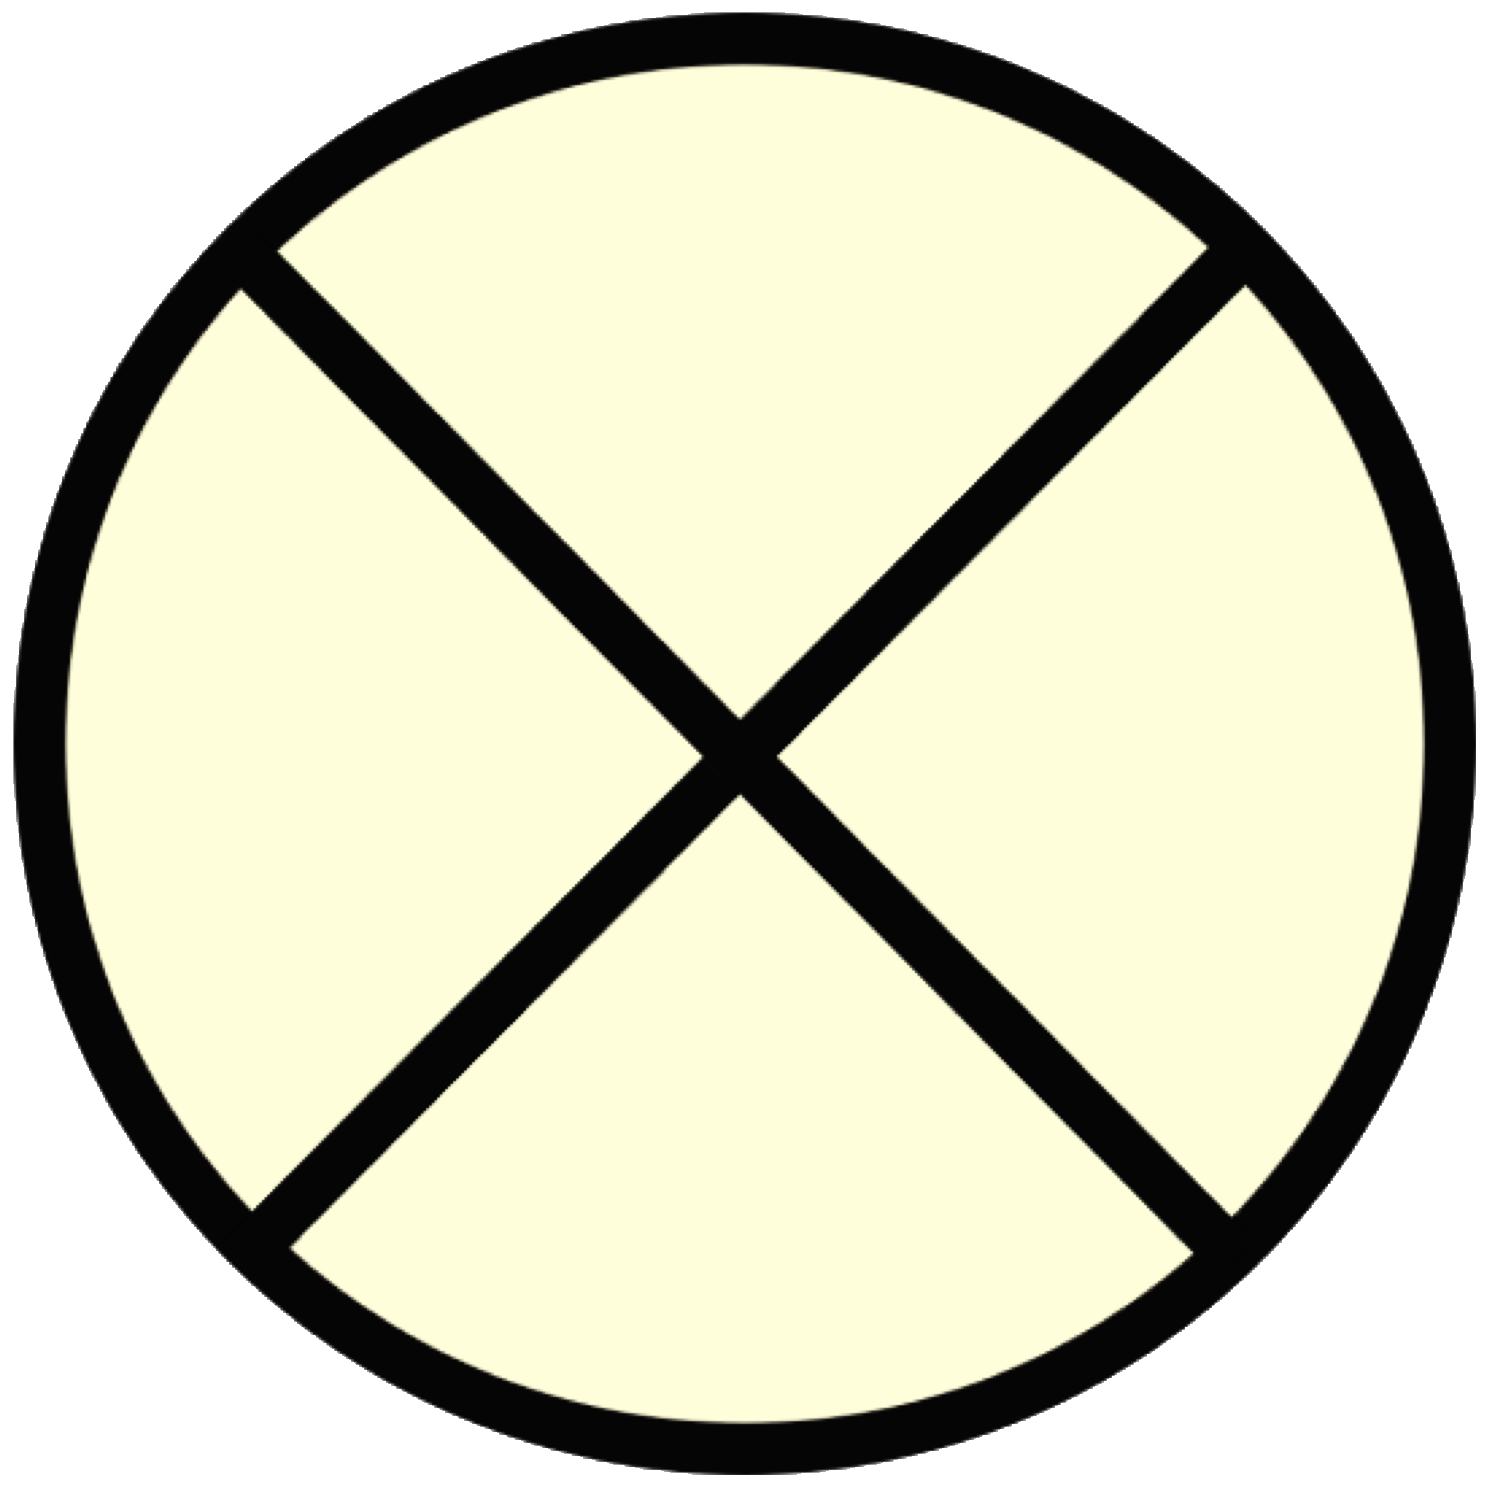
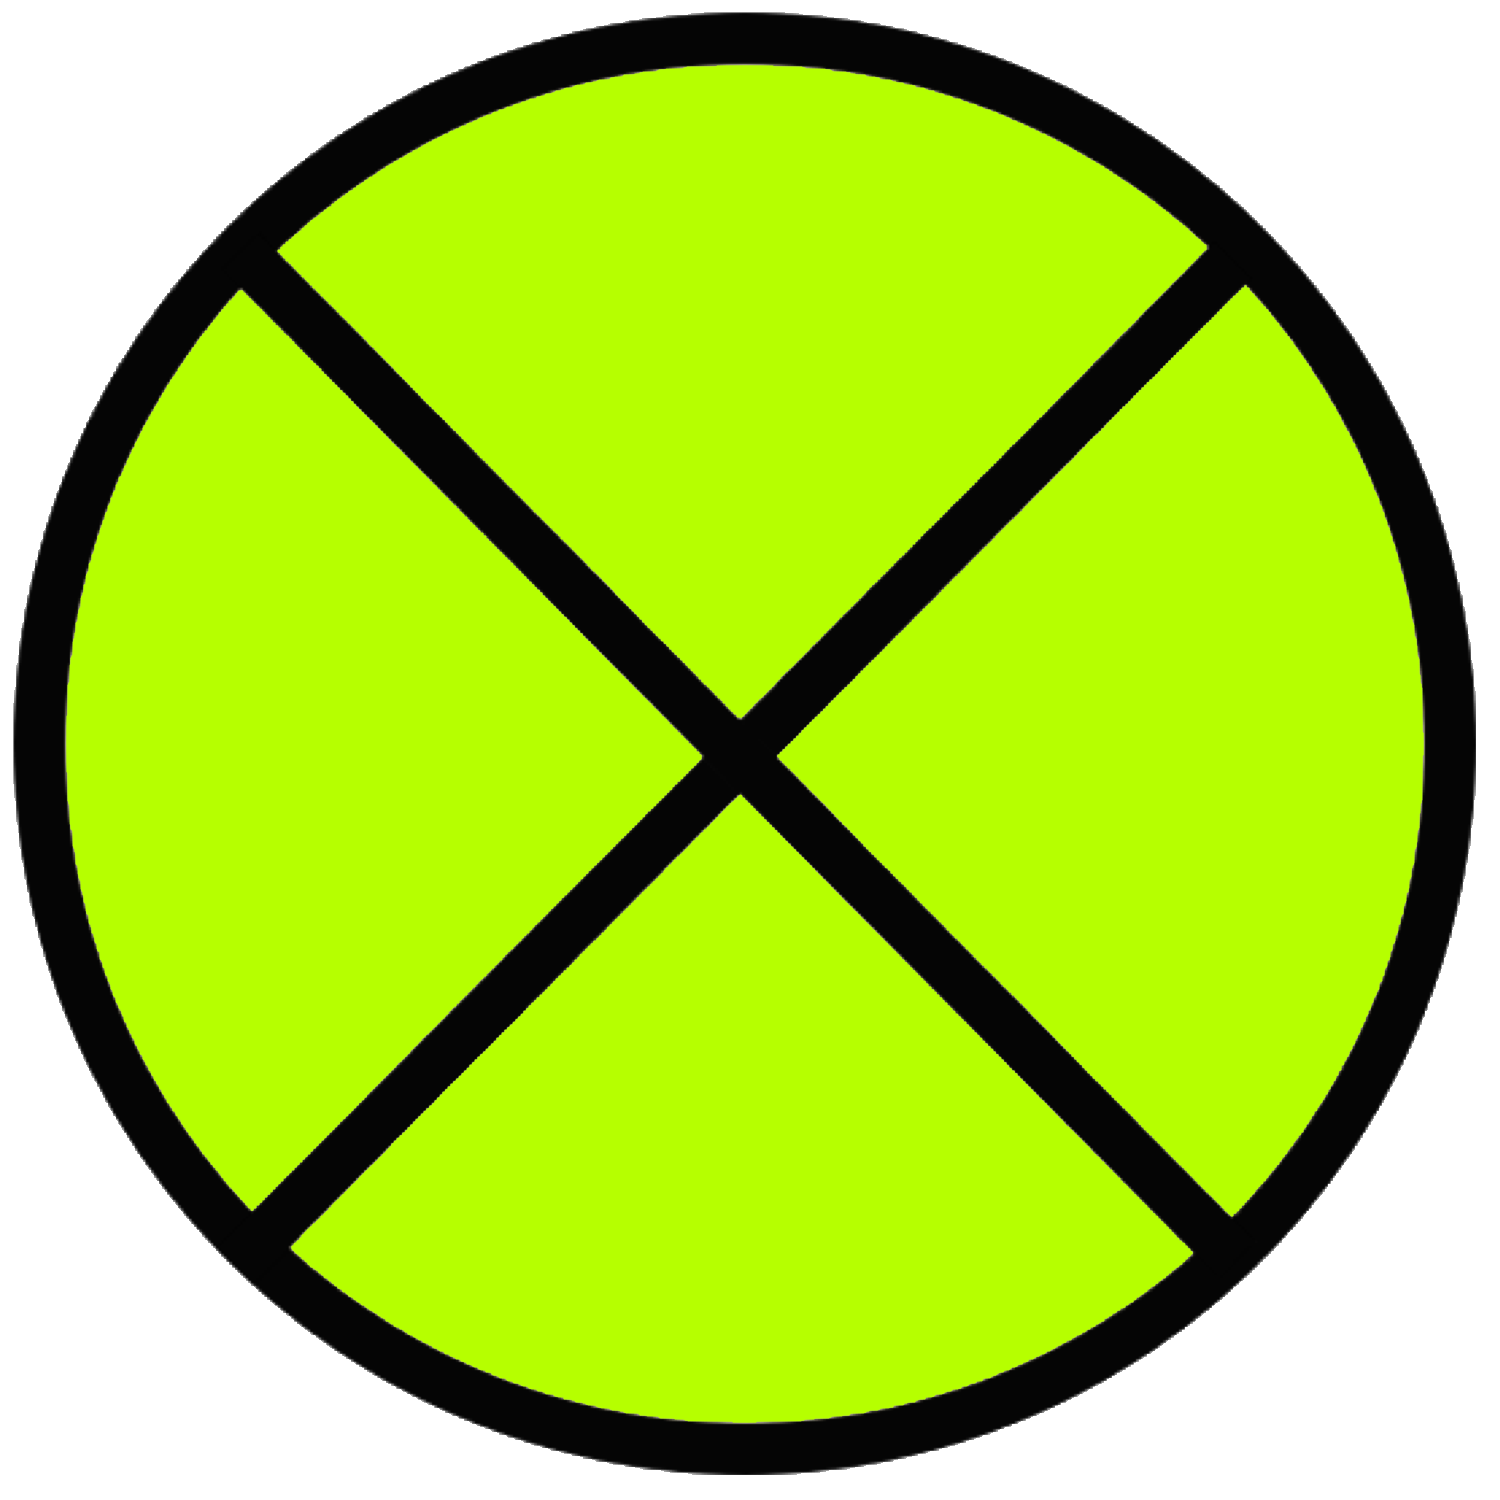
Made Switch and Bulb update image

diff --git a/didactic-palm-tree/Views/Components/DataTemplate/SwitchDataTemplate.xaml b/didactic-palm-tree/Views/Components/DataTemplate/SwitchDataTemplate.xaml
@@ -8,11 +8,20 @@
         <Grid>
             <Image IsHitTestVisible="False"
                     Stretch="Fill"
-                    Source="../../../Resources/Switch_Off.png"
-                    Tag="setting" />
-            <Button HorizontalAlignment="Right"
-                    VerticalAlignment="Bottom"
-                    Margin="5" />
+                    Tag="setting" >
+                <Image.Style>
+                    <Style TargetType="{x:Type Image}">
+                        <Style.Triggers>
+                            <DataTrigger Binding="{Binding IsOn}" Value="True">
+                                <Setter Property="Source" Value="../../../Resources/Switch_On.png"></Setter>
+                            </DataTrigger>
+                            <DataTrigger Binding="{Binding IsOn}" Value="False">
+                                <Setter Property="Source" Value="../../../Resources/Switch_Off.png"></Setter>
+                            </DataTrigger>
+                        </Style.Triggers>
+                    </Style>
+                </Image.Style>
+            </Image>
         </Grid>
     </DataTemplate>
 

diff --git a/didactic-palm-tree/Views/Components/DataTemplate/BulbDataTemplate.xaml b/didactic-palm-tree/Views/Components/DataTemplate/BulbDataTemplate.xaml
@@ -8,11 +8,20 @@
         <Grid>
             <Image IsHitTestVisible="False"
                     Stretch="Fill"
-                    Source="../../../Resources/Bulb_Off.png"
-                    Tag="setting" />
-            <Button HorizontalAlignment="Right"
-                    VerticalAlignment="Bottom"
-                    Margin="5" />
+                    Tag="setting">
+                <Image.Style>
+                    <Style TargetType="{x:Type Image}">
+                        <Style.Triggers>
+                            <DataTrigger Binding="{Binding IsOn}" Value="True">
+                                <Setter Property="Source" Value="../../../Resources/Bulb_On.png"></Setter>
+                            </DataTrigger>
+                            <DataTrigger Binding="{Binding IsOn}" Value="False">
+                                <Setter Property="Source" Value="../../../Resources/Bulb_Off.png"></Setter>
+                            </DataTrigger>
+                        </Style.Triggers>
+                    </Style>
+                </Image.Style>
+            </Image>
         </Grid>
     </DataTemplate>
 

diff --git a/didactic-palm-tree/Views/Util/Styles.xaml b/didactic-palm-tree/Views/Util/Styles.xaml
@@ -2,8 +2,8 @@
                     xmlns:x="http://schemas.microsoft.com/winfx/2006/xaml"
                     xmlns:controls="clr-namespace:DiagramDesigner.Controls;assembly=DiagramDesigner">
 
-    <SolidColorBrush x:Key="ThemeColour" Color="DarkBlue" />
-    <SolidColorBrush x:Key="ThemeColour2" Color="LightBlue" />
+    <SolidColorBrush x:Key="ThemeColour" Color="#270995" />
+    <SolidColorBrush x:Key="ThemeColour2" Color="#c9e8fa" />
     <SolidColorBrush x:Key="ThemeColour3" Color="LightGoldenrodYellow" />
 
     <SolidColorBrush x:Key="FontColour" Color="White" />

diff --git a/didactic-palm-tree/Resources/Styles/ZoomBox.xaml b/didactic-palm-tree/Resources/Styles/ZoomBox.xaml
@@ -74,7 +74,7 @@
                 <ControlTemplate TargetType="{x:Type controls:ZoomBox}">
                     <Border CornerRadius="1"
                             BorderThickness="1"
-                            Background="#EEE"
+                            Background="#AAA"
                             BorderBrush="DimGray">
                         <Expander IsExpanded="True"
                                   Background="Transparent">

diff --git a/didactic-palm-tree/Resources/Styles/ScrollBar.xaml b/didactic-palm-tree/Resources/Styles/ScrollBar.xaml
@@ -58,6 +58,7 @@
     <Setter Property="OverridesDefaultStyle" Value="true"/>
     <Setter Property="IsTabStop" Value="false"/>
     <Setter Property="Focusable" Value="false"/>
+    <Setter Property="Background" Value="DarkRed"></Setter>
     <Setter Property="Template">
       <Setter.Value>
         <ControlTemplate TargetType="{x:Type Thumb}">

diff --git a/didactic-palm-tree/Views/Converter/BulbImageConverter.cs b/didactic-palm-tree/Views/Converter/BulbImageConverter.cs
@@ -1,0 +1,25 @@
+using System;
+using System.Collections.Generic;
+using System.Globalization;
+using System.Linq;
+using System.Text;
+using System.Threading.Tasks;
+using System.Windows.Data;
+using System.Windows.Media.Imaging;
+
+namespace didactic_palm_tree.Views.Converter
+{
+    public class BulbImageConverter : IValueConverter
+    {
+        public object Convert(object value, Type typename, object parameter, CultureInfo info)
+        {
+            string url = ((bool) value) ? "../../../Resources/Bulb_On.png" : "../../../ Resources/Bulb_Off.png";
+            return new BitmapImage(new Uri(url, UriKind.Relative));
+        }
+
+        public object ConvertBack(object value, Type typename, object parameter, CultureInfo info)
+        {
+            throw new NotImplementedException();
+        }
+    }
+}

diff --git a/UnitTests/NetListMatrixTest.cs b/UnitTests/NetListMatrixTest.cs
@@ -17,7 +17,7 @@ namespace UnitTests
         {
             var expectedMatrix = new StarMathLib.SparseMatrix(2, 2)
             {
-
+                
             };
             var testConnections = new List<IConnection>();
             var testResistComponent = new Resistor(1);
@@ -34,10 +34,11 @@ namespace UnitTests
         [TestMethod]
         public void TestBMatrix()
         {
-            var expectedMatrix = new StarMathLib.SparseMatrix(1, 2)
+            var expectedMatrix = new StarMathLib.SparseMatrix(1, 2);
+            expectedMatrix.add(new double[1, 2]
             {
-
-            };
+                { 1,3}
+            });
             var testConnections = new List<IConnection>();
             var testVoltageSources = new List<Battery>();
             var testResistComponent = new Resistor(1);

diff --git a/didactic-palm-tree/Views/Components/ViewModels/BulbViewModel.cs b/didactic-palm-tree/Views/Components/ViewModels/BulbViewModel.cs
@@ -1,12 +1,16 @@
-using didactic_palm_tree.Views.Components.Abstract;
+using didactic_palm_tree.Properties;
+using didactic_palm_tree.Views.Components.Abstract;
 using DiagramDesigner;
 
 namespace didactic_palm_tree.Views.Components.ViewModels
 {
     class BulbViewModel : ComponentViewModel
     {
+        public bool IsOn { get; set; }
+
         public BulbViewModel(DiagramViewModel parent, double left, double top) : base(parent, left, top)
         {
+            IsOn = true;
             Model = new UIModel.Bulb();
         }
 

diff --git a/didactic-palm-tree/Views/Components/ViewModels/SwitchViewModel.cs b/didactic-palm-tree/Views/Components/ViewModels/SwitchViewModel.cs
@@ -5,8 +5,11 @@ namespace didactic_palm_tree.Views.Components.ViewModels
 {
     class SwitchViewModel : ComponentViewModel
     {
+        public bool IsOn { get; set; }
+
         public SwitchViewModel(DiagramViewModel parent, double left, double top) : base(parent, left, top)
         {
+            IsOn = true;
             Model = new UIModel.Switch();
         }
 
